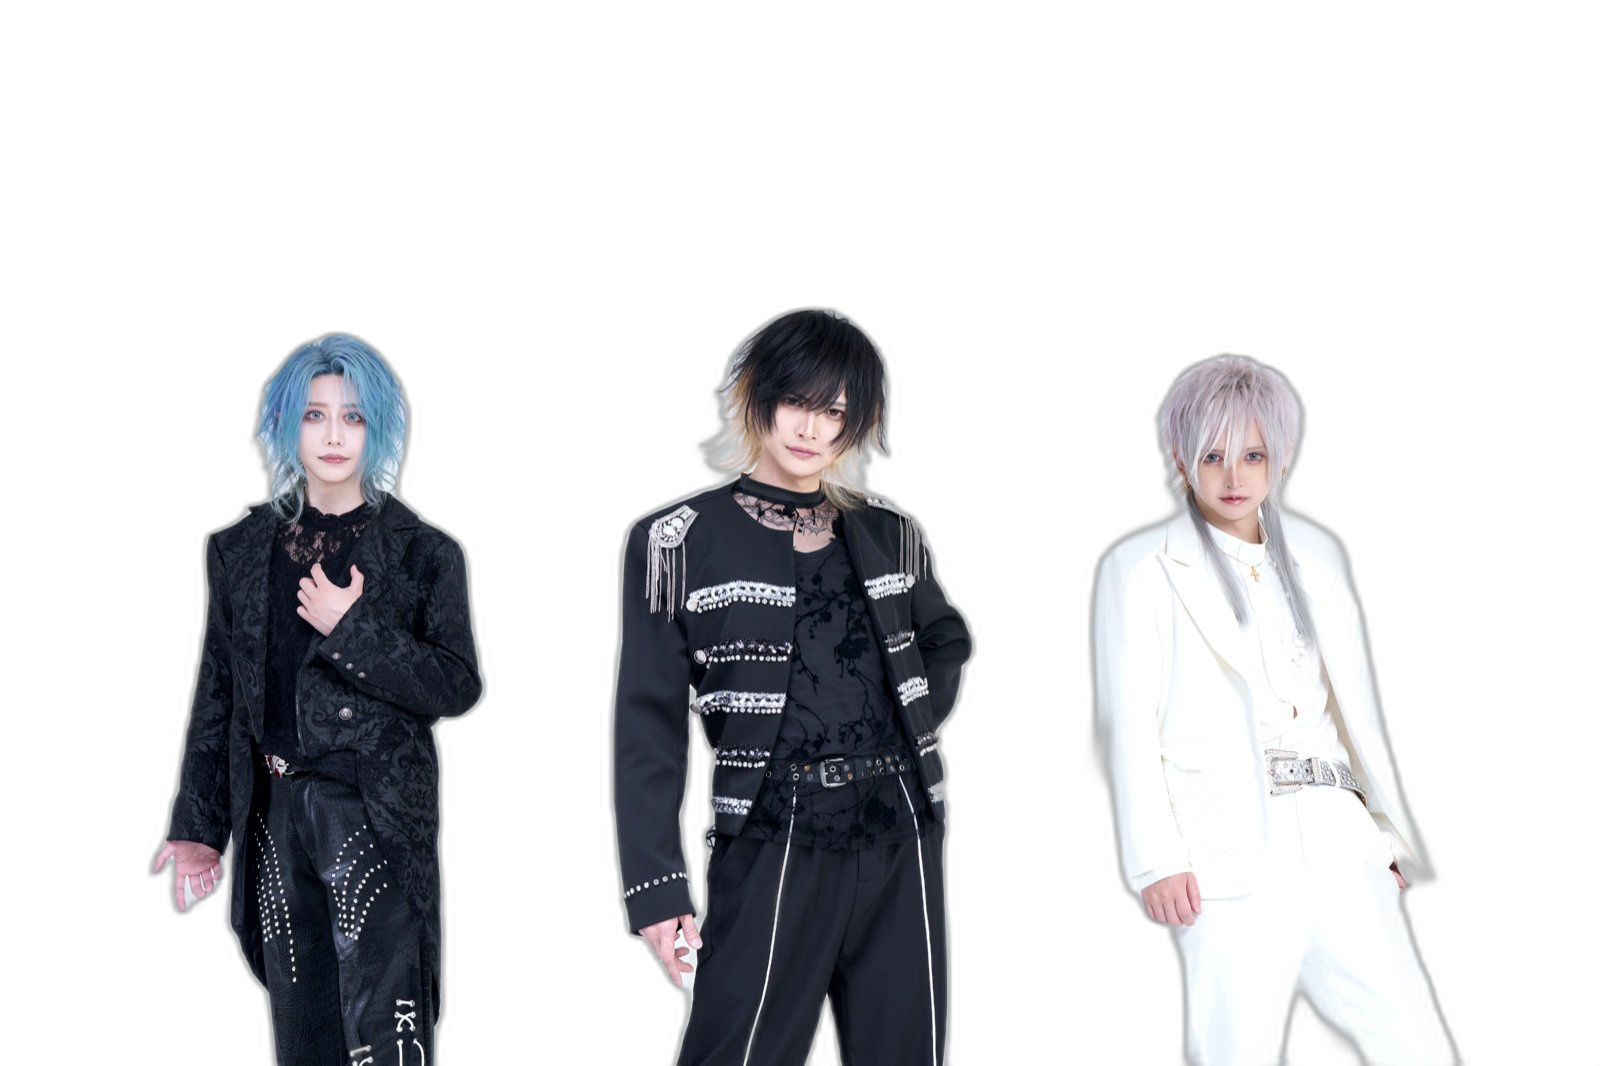
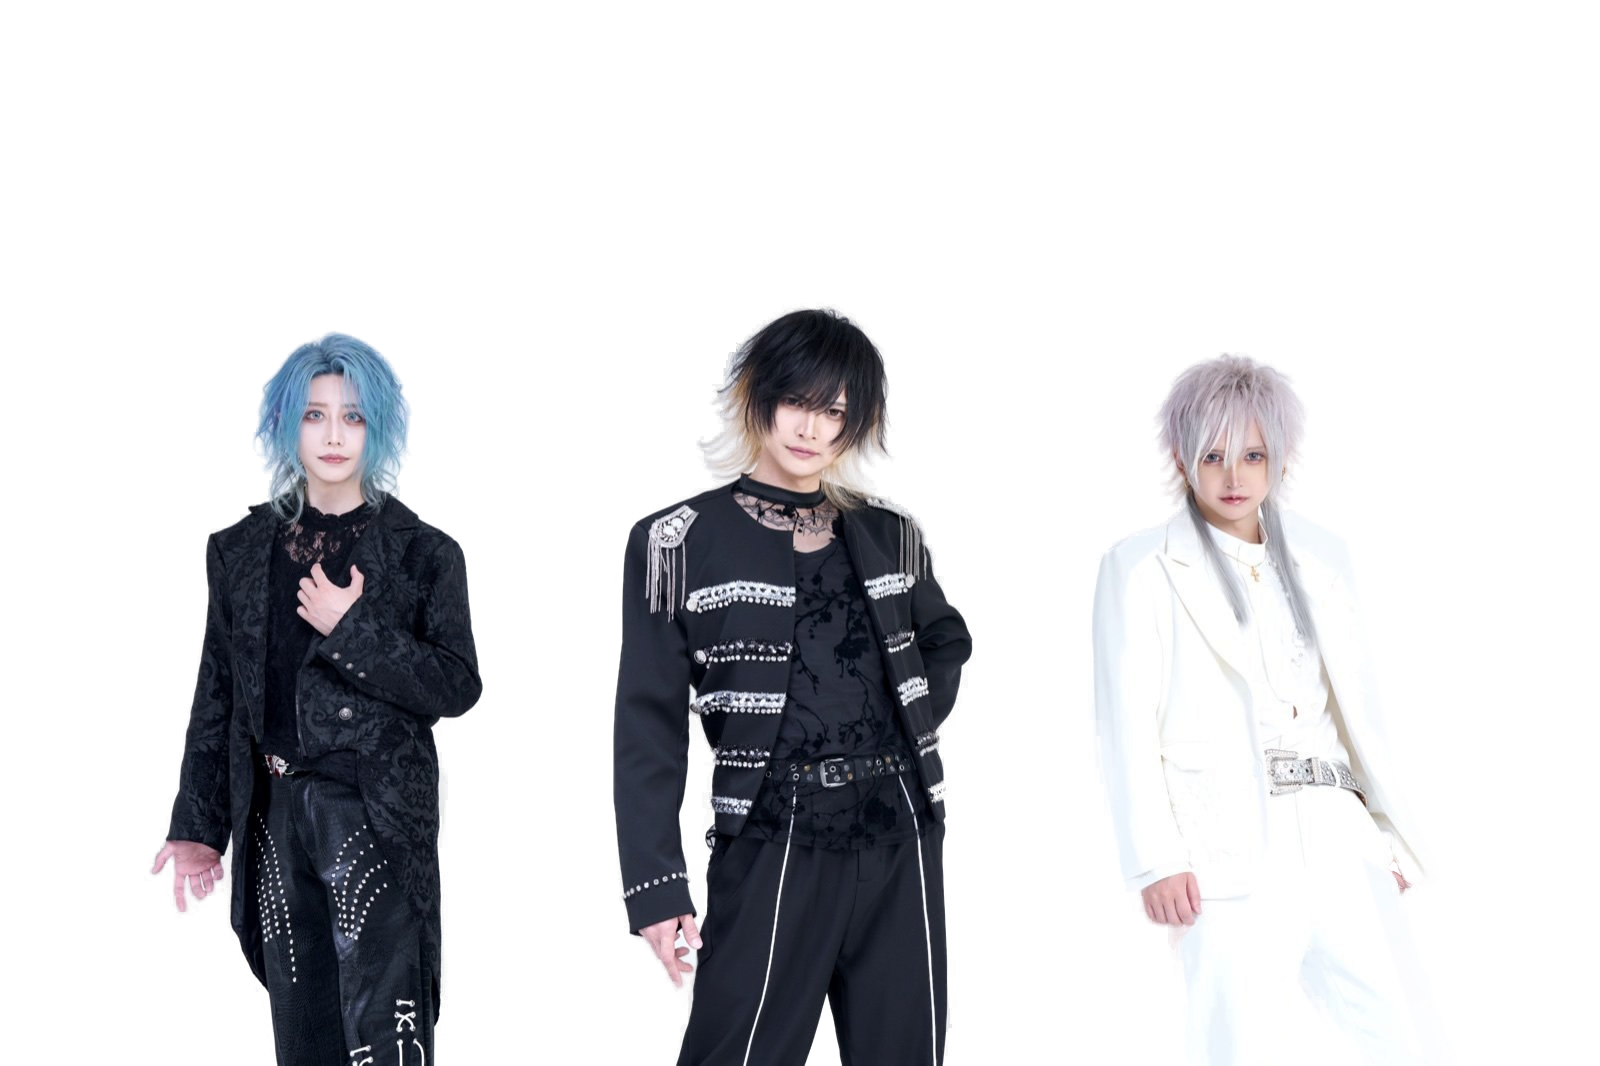
charity: matte the cutout so the sleeves and hair keep their shape
The plain U2Net mask came back rounded -- RAY's sleeve and hand blurred
into one blob. Alpha matting redraws the boundary from the source
colours, and pymatting is already installed, so it runs offline like the
rest. Strands of hair, the lapel edge and the gap between his hand and
his hip all come back.

diff --git a/assets/charity/create_flyer_wide.py b/assets/charity/create_flyer_wide.py
@@ -4,13 +4,8 @@
 主役は「VALHALLA CHARITY LIVE」の文字。その下に補足として
 「文化 × エンタメ × AI」を置き、どちらも3人の頭の上にアーチ状に並べる。
 
-■ 白背景を抜かずに渋谷を透けさせている理由
-メンバー写真は白ホリゾント撮影で、白衣装の人の明度（中央値251）が
-背景（242）より高い。つまり背景を消すしきい値は必ず衣装も消すので、
-自動での切り抜きは原理的にできない。
-そこで写真は矩形のまま使い、**縁に向かってアルファを落として**
-渋谷の夜景に溶かしている。人物のまわりだけ白が残るが、
-スポットライトのように見えるので不自然にならない。
+人物は明度で判定せず、rembg のセマンティックなマットで白ホリゾントから
+切り抜く。白い衣装を背景と取り違えないことが、この方法を使う理由。
 """
 import math
 import random
@@ -112,27 +107,53 @@ def cutouts() -> list[Image.Image]:
     """
     if not CUTOUT.exists():
         from rembg import remove, new_session
+        # alpha matting を有効にすると、元画像の色を手がかりに境界を引き直す。
+        # これが無いとマスクが丸く鈍り、袖や手の形が潰れる。
         remove(Image.open(MEMBERS).convert("RGB"),
-               session=new_session("u2net")).save(CUTOUT)
+               session=new_session("u2net"),
+               alpha_matting=True,
+               alpha_matting_foreground_threshold=250,
+               alpha_matting_background_threshold=15,
+               alpha_matting_erode_size=12).save(CUTOUT)
 
     rgba = Image.open(CUTOUT).convert("RGBA")
-    alpha = np.asarray(rgba)[:, :, 3]
-    # 連結成分で3人に分ける。面積の大きい順に3つ取り、左からの順に並べ替える。
+    pixels = np.asarray(rgba)
+    alpha = pixels[:, :, 3]
+    # 連結成分で3人に分ける。16は人物の明度ではなく、rembg のアルファに
+    # 残る微小ノイズだけを外し、髪先などの半透明部分を成分へ含める値。
     n, labels, stats, _ = cv2.connectedComponentsWithStats(
-        (alpha > 128).astype(np.uint8), connectivity=8)
+        (alpha >= 16).astype(np.uint8), connectivity=8)
     order = sorted(range(1, n), key=lambda i: -stats[i, cv2.CC_STAT_AREA])[:3]
+    if len(order) != 3:
+        raise RuntimeError(f"人物の連結成分が3個見つかりません: {len(order)}個")
     order.sort(key=lambda i: stats[i, cv2.CC_STAT_LEFT])
 
     people = []
-    for i in order:
+    for number, i in enumerate(order, start=1):
         x, y = stats[i, cv2.CC_STAT_LEFT], stats[i, cv2.CC_STAT_TOP]
         w, h = stats[i, cv2.CC_STAT_WIDTH], stats[i, cv2.CC_STAT_HEIGHT]
-        one = rgba.crop((x, y, x + w, y + h)).copy()
-        # 他人のはみ出しを消すため、その成分だけのアルファに差し替える
-        mine = Image.fromarray(
-            ((labels[y:y + h, x:x + w] == i) * 255).astype(np.uint8))
-        one.putalpha(ImageChops.multiply(one.getchannel("A"), mine))
-        people.append(one)
+        area = int(stats[i, cv2.CC_STAT_AREA])
+        # 連結成分の矩形に余白を足し、rembg の柔らかい元アルファをそのまま残す。
+        # 二値マスクへ差し替えないので、髪や衣装の縁がギザギザにならない。
+        pad = 12
+        box = (max(0, x - pad), max(0, y - pad),
+               min(rgba.width, x + w + pad), min(rgba.height, y + h + pad))
+        people.append(rgba.crop(box))
+        print(f"人物{number}: alpha領域 {area:,}px | bbox=({x}, {y}, {w}, {h})")
+
+    # 右人物の領域に、高明度で十分不透明な画素が大量にあることを確認する。
+    # ここが減っていれば、白スーツまで背景として消した失敗と判断する。
+    right = order[2]
+    luminance = cv2.cvtColor(pixels[:, :, :3], cv2.COLOR_RGB2GRAY)
+    right_mask = (labels == right) & (alpha >= 128)
+    right_pixels = int(np.count_nonzero(right_mask))
+    white_suit_pixels = int(np.count_nonzero(right_mask & (luminance >= 245)))
+    white_ratio = white_suit_pixels / max(1, right_pixels)
+    print("右メンバー白スーツ検証: "
+          f"高明度かつ不透明 {white_suit_pixels:,}px / "
+          f"右人物 {right_pixels:,}px ({white_ratio:.1%})")
+    if white_suit_pixels < 50_000 or white_ratio < 0.30:
+        raise RuntimeError("右メンバーの白スーツが十分に残っていません")
     return people
 
 
@@ -140,21 +161,31 @@ def add_people(base: Image.Image) -> None:
     """中央を大きく、左右を小さく下げて、中央へ視線が集まる形にする。"""
     people = cutouts()
     base_y = 968                                   # 足元をそろえる高さ
-    plan = ((0, 0.52, -470, 26), (1, 0.62, 0, 0), (2, 0.52, 470, 26))
-    for idx, ratio, dx, dy in sorted(plan, key=lambda p: p[1]):
+    plan = ((0, 0.52, -420), (1, 0.62, 0), (2, 0.52, 420))
+    placed = []
+    for idx, ratio, dx in plan:
         person = people[idx]
         ph = round(H * ratio)
         pw = round(person.width * ph / person.height)
         person = person.resize((pw, ph), Image.Resampling.LANCZOS)
         x = W // 2 + dx - pw // 2
-        y = base_y + dy - ph
+        y = base_y - ph
+        placed.append((person, x, y))
 
-        # 足元に淡い影。これが無いと人物が宙に浮いて見える。
-        shadow = Image.new("RGBA", (W, H), (0, 0, 0, 0))
-        ImageDraw.Draw(shadow).ellipse(
-            (x + pw * 0.10, base_y + dy - 26, x + pw * 0.90, base_y + dy + 26),
-            fill=(0, 0, 0, 150))
-        base.alpha_composite(shadow.filter(ImageFilter.GaussianBlur(26)))
+    # 足元にごく淡い影。人物より先に一枚の層で敷き、互いを暗くしない。
+    shadow = Image.new("RGBA", (W, H), (0, 0, 0, 0))
+    shadow_draw = ImageDraw.Draw(shadow)
+    for person, x, _ in placed:
+        half_width = round(person.width * 0.36)
+        center_x = x + person.width // 2
+        shadow_draw.ellipse(
+            (center_x - half_width, base_y - 48,
+             center_x + half_width, base_y - 16),
+            fill=(0, 0, 0, 68))
+    base.alpha_composite(shadow.filter(ImageFilter.GaussianBlur(18)))
+
+    # 左右を先に、中央を最後に置いて、中央人物を視覚的な主役にする。
+    for person, x, y in (placed[0], placed[2], placed[1]):
         base.alpha_composite(person, (x, y))
 
 
@@ -220,15 +251,16 @@ def main() -> None:
     canvas = add_lasers(background()).convert("RGBA")
     add_people(canvas)
 
-    # 写真の白ホリゾントは、どう処理しても薄い霞として残る。
-    # そこを隠すのではなく、**レーザーを重ねて背景そのものに変えてしまう**。
-    # 合成のあとに本数を増やした層を全面へ加算すると、
-    # 残った白がレーザーの光に見え、画面が1枚の絵としてつながる。
+    # 人物の前にもレーザーを走らせ、背景と同じ空間にいるように見せる。
     over = laser_layer((W, H), seed=4471, beams_per_side=11, gain=0.9)
     canvas = ImageChops.add(canvas.convert("RGB"), over).convert("RGBA")
     add_type(canvas)
     out = canvas.convert("RGB")
     out.save(OUTPUT, quality=92, subsampling=0, optimize=True)
+    if out.size != (W, H):
+        raise RuntimeError(f"出力サイズが不正です: {out.size}")
+    if OUTPUT.stat().st_size > 2 * 1024 * 1024:
+        raise RuntimeError(f"出力が2MBを超えています: {OUTPUT.stat().st_size} bytes")
     print(f"{OUTPUT} | {out.width}x{out.height} | {OUTPUT.stat().st_size} bytes")
 
 
